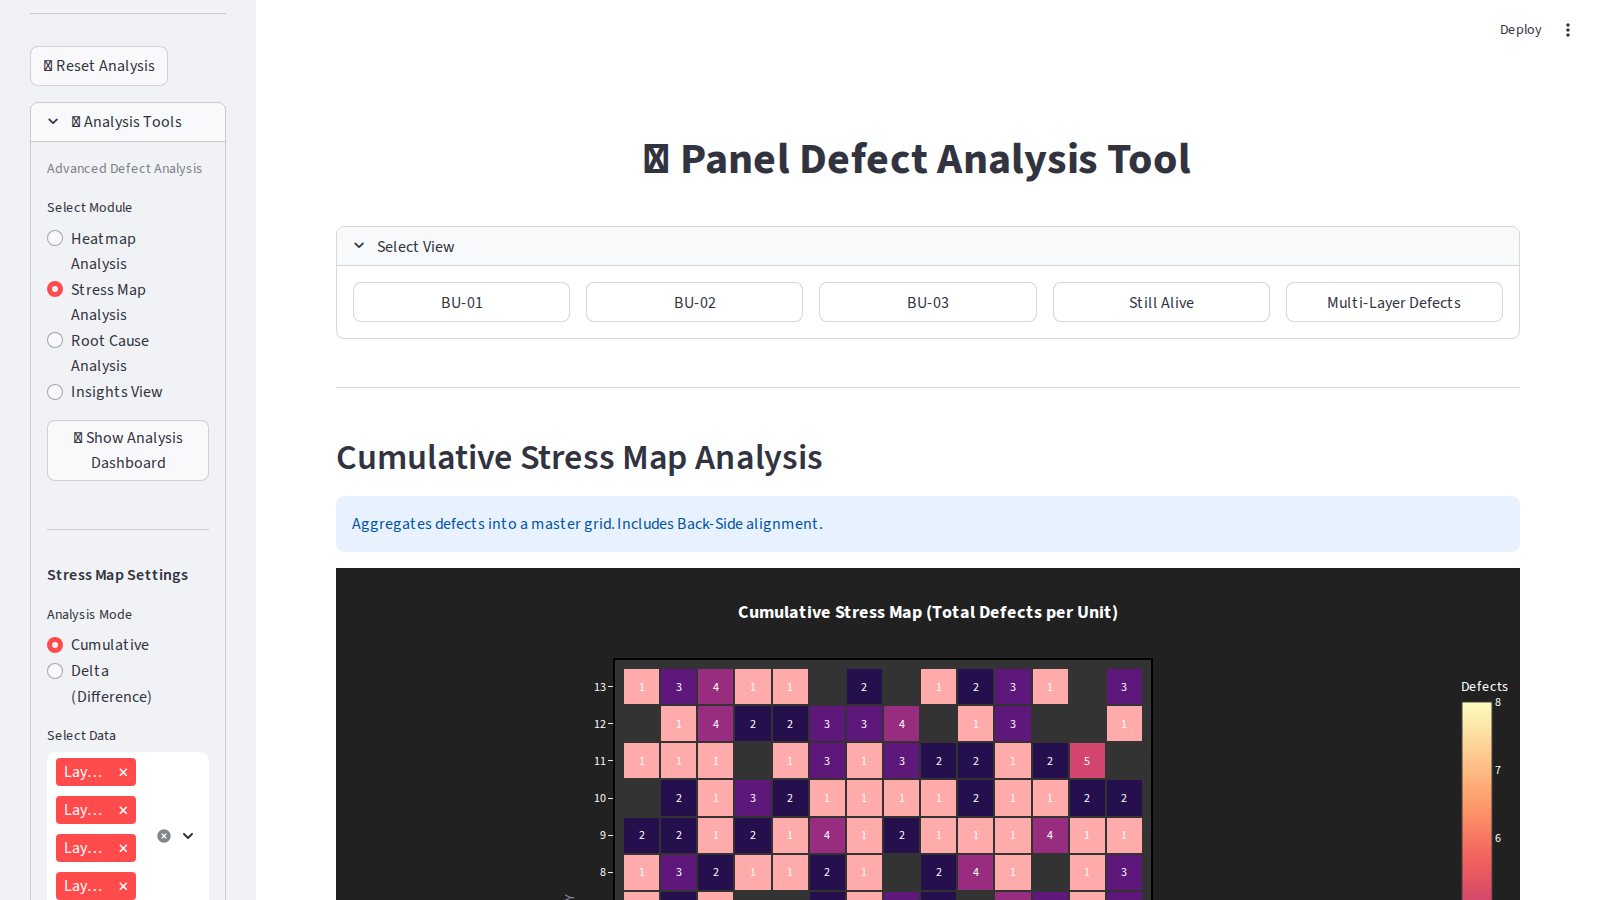
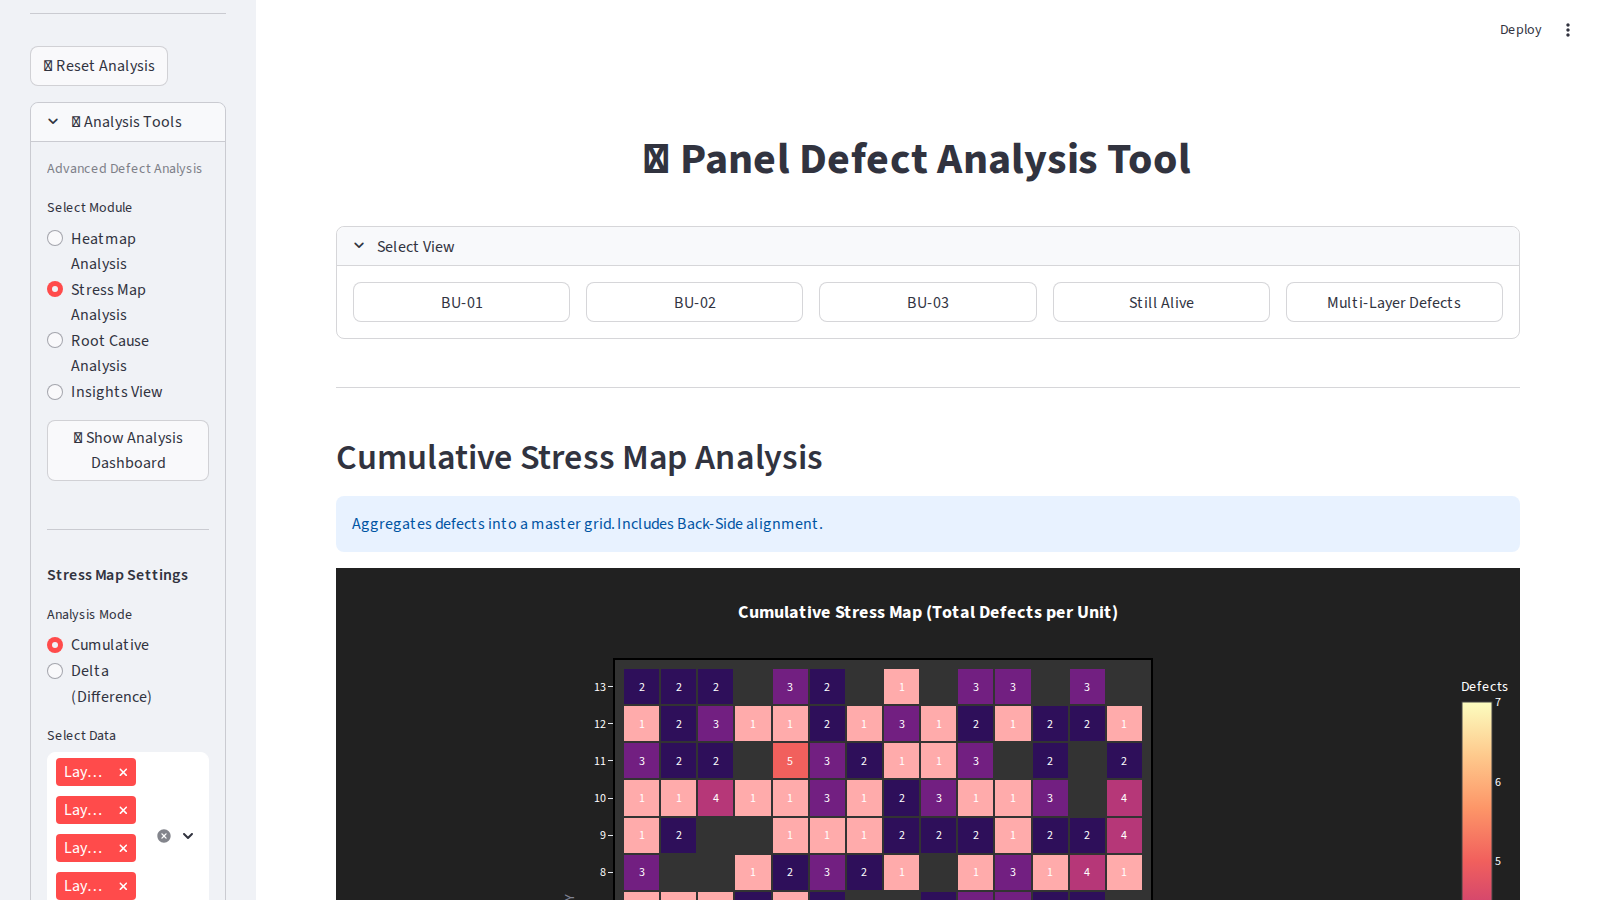
Refine Yield Simulator to Exclude Verification Codes
- **Yield Simulator Update:** Changed exclusion filter to use `Verification` codes (e.g., CU22, N) instead of `DEFECT_TYPE` descriptions. This allows users to simulate fixing specific defect mechanisms.
- **Backend Logic:** Updated `get_true_defect_coordinates` to filter based on the `Verification` column.
- **Layout:** "Still Alive" sidebar controls remain at the top for easy access.

Changed region(s): [[0.375, 0.7156, 0.7188, 1.0]]

diff --git a/src/views/still_alive.py b/src/views/still_alive.py
@@ -28,30 +28,26 @@ def render_still_alive_sidebar(store: SessionStore):
 
         st.divider()
 
-        # 2. Defect Type Filters
-        st.markdown("**Exclude Defect Types**")
-
-        # Get all unique defect types from the *entire* panel data
-        # We need a helper to get all unique types efficiently or just iterate once.
-        # Since we have store.layer_data (PanelData), let's get a combined df
-        # This might be heavy if done every rerun, but Streamlit caches the load_data result.
-        # Ideally, we should cache the list of defect types too.
+        # 2. Defect Type Filters (Verification Codes)
+        st.markdown("**Exclude Verification Codes**")
 
         # Quick aggregation for filters
         full_df = store.layer_data.get_combined_dataframe()
-        if not full_df.empty:
-            all_defects = sorted(full_df['DEFECT_TYPE'].unique().tolist())
+        if not full_df.empty and 'Verification' in full_df.columns:
+            # Drop NaN/None and safe values? User wants to exclude SPECIFIC codes.
+            # We show all codes found in the file.
+            all_verification_codes = sorted(full_df['Verification'].dropna().unique().tolist())
         else:
-            all_defects = []
+            all_verification_codes = []
 
         if 'excluded_defects' not in st.session_state:
             st.session_state.excluded_defects = []
 
         selected_exclusions = st.multiselect(
-            "Select Defects to Exclude",
-            options=all_defects,
+            "Select Verification Codes to Exclude",
+            options=all_verification_codes,
             default=st.session_state.excluded_defects,
-            help="Defects selected here will be ignored in the yield calculation."
+            help="Units with these Verification codes will be treated as 'Good' (Yield Improvement)."
         )
         st.session_state.excluded_defects = selected_exclusions
 

diff --git a/src/data_handler.py b/src/data_handler.py
@@ -257,9 +257,10 @@ def get_true_defect_coordinates(
     if all_layers_df.empty:
         return {}
 
-    # Filter Excluded Defect Types ("What-If" Logic)
+    # Filter Excluded Defect Types ("What-If" Logic) - Uses Verification Codes
     if excluded_defect_types:
-        all_layers_df = all_layers_df[~all_layers_df['DEFECT_TYPE'].isin(excluded_defect_types)]
+        if 'Verification' in all_layers_df.columns:
+            all_layers_df = all_layers_df[~all_layers_df['Verification'].isin(excluded_defect_types)]
 
     if all_layers_df.empty:
         return {}
